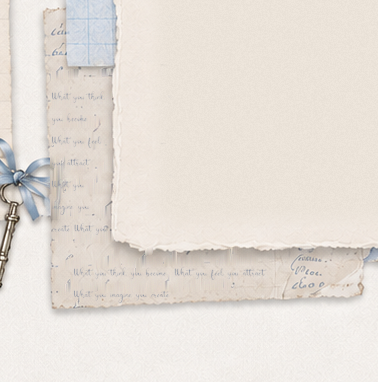
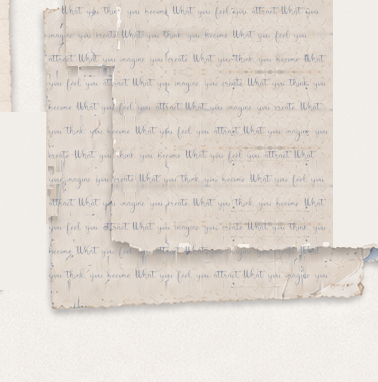
Split the quote page out as its own layer and write the quote across it
The fragment was one flattened picture - a written page, a blank sheet lying
across it, grid tape, a bow and a key - so the quote had to be fitted into
whatever gaps the pieces on top left behind. That is what forced two different
sizes, and it is the wrong way round.

Now the page is its own layer with the quote running across the whole sheet,
ten times over at one size, stopping only at the page's own torn edges. The
sheet, the tape and the bow+key are lifted out and put back as their own
layers above it, so they cover what they cover.

The pieces were separated by shape, not colour: the ribbon and her ink are the
same blue-grey, so any colour test drags her handwriting into the bow. Wearing
the candidate down by three pixels drops pen strokes and keeps the broad
pieces, grown back by the same amount and no further.

Stacking the four layers reproduces her original picture pixel for pixel
outside the page surface, which is the check that the cut is clean.

diff --git a/index.html b/index.html
@@ -275,6 +275,9 @@ nav,nav a,nav .mono img{transition:color .35s ease,filter .35s ease}
     <div class="ab" id="ab-graph-left"   aria-hidden="true"><img decoding="async" data-src="assets/about/graph-left.webp" alt=""></div>
     <div class="ab" id="ab-blue-strip"   aria-hidden="true"><img decoding="async" data-src="assets/about/blue-strip.webp" alt=""></div>
     <div class="ab" id="ab-fragment"     aria-hidden="true"><img decoding="async" data-src="assets/about/fragment.webp" alt=""></div>
+    <div class="ab" id="ab-frag-sheet"   aria-hidden="true"><img decoding="async" data-src="assets/about/fragment-sheet.webp" alt=""></div>
+    <div class="ab" id="ab-frag-tape"    aria-hidden="true"><img decoding="async" data-src="assets/about/fragment-tape.webp" alt=""></div>
+    <div class="ab" id="ab-frag-bow"     aria-hidden="true"><img decoding="async" data-src="assets/about/fragment-trinket.webp" alt=""></div>
     <div class="ab" id="ab-lace"         aria-hidden="true"><img decoding="async" data-src="assets/about/lace.webp" alt=""></div>
     <div class="ab" id="ab-intro-paper"  aria-hidden="true"><img decoding="async" data-src="assets/about/intro-paper.webp" alt=""></div>
     <div class="ab" id="ab-exp-paper"    aria-hidden="true"><img decoding="async" data-src="assets/about/exp-paper.webp" alt=""></div>
@@ -539,7 +542,8 @@ const bookFX = (() => {
       const asm = [], origined = [];
       /* backing layers slip in low-key — they set the table quietly */
       [["ab-center-graph",140],["ab-graph-left",200],["ab-blue-strip",250],
-       ["ab-fragment",300],["ab-lace",350]].forEach(([id,d]) =>
+       ["ab-fragment",300],["ab-frag-sheet",300],["ab-frag-tape",300],
+       ["ab-frag-bow",300],["ab-lace",350]].forEach(([id,d]) =>
         asm.push(piece(id, [
           {opacity:0, t:"scale(.985)"},
           {opacity:1, t:"scale(1)"}], {delay:d, duration:320})));
@@ -691,7 +695,12 @@ const ABOUT_LAYOUT = {
   "ab-center-graph": {x: 628, y: 166, w: 484, h: 740, r: 0, z: 1},
   "ab-graph-left":   {x:   0, y: 540, w: 260, h: 340, r: 0, z: 1},
   "ab-blue-strip":   {x:   0, y: 700, w: 520, h: 241, r: 0, z: 1},
+  /* the quote page, then the pieces lying on it. Same box, stacked in order:
+     the page carries the writing edge to edge and these cover what they cover. */
   "ab-fragment":     {x: 580, y: 528, w: 378, h: 382, r: 0, z: 2},
+  "ab-frag-sheet":   {x: 580, y: 528, w: 378, h: 382, r: 0, z: 2},
+  "ab-frag-tape":    {x: 580, y: 528, w: 378, h: 382, r: 0, z: 2},
+  "ab-frag-bow":     {x: 580, y: 528, w: 378, h: 382, r: 0, z: 2},
   "ab-lace":         {x:1086, y: 186, w: 140, h: 610, r: 0, z: 2},
   /* papers */
   "ab-intro-paper":  {x:  60, y: 268, w: 555, h: 522, r: 0, z: 3},
